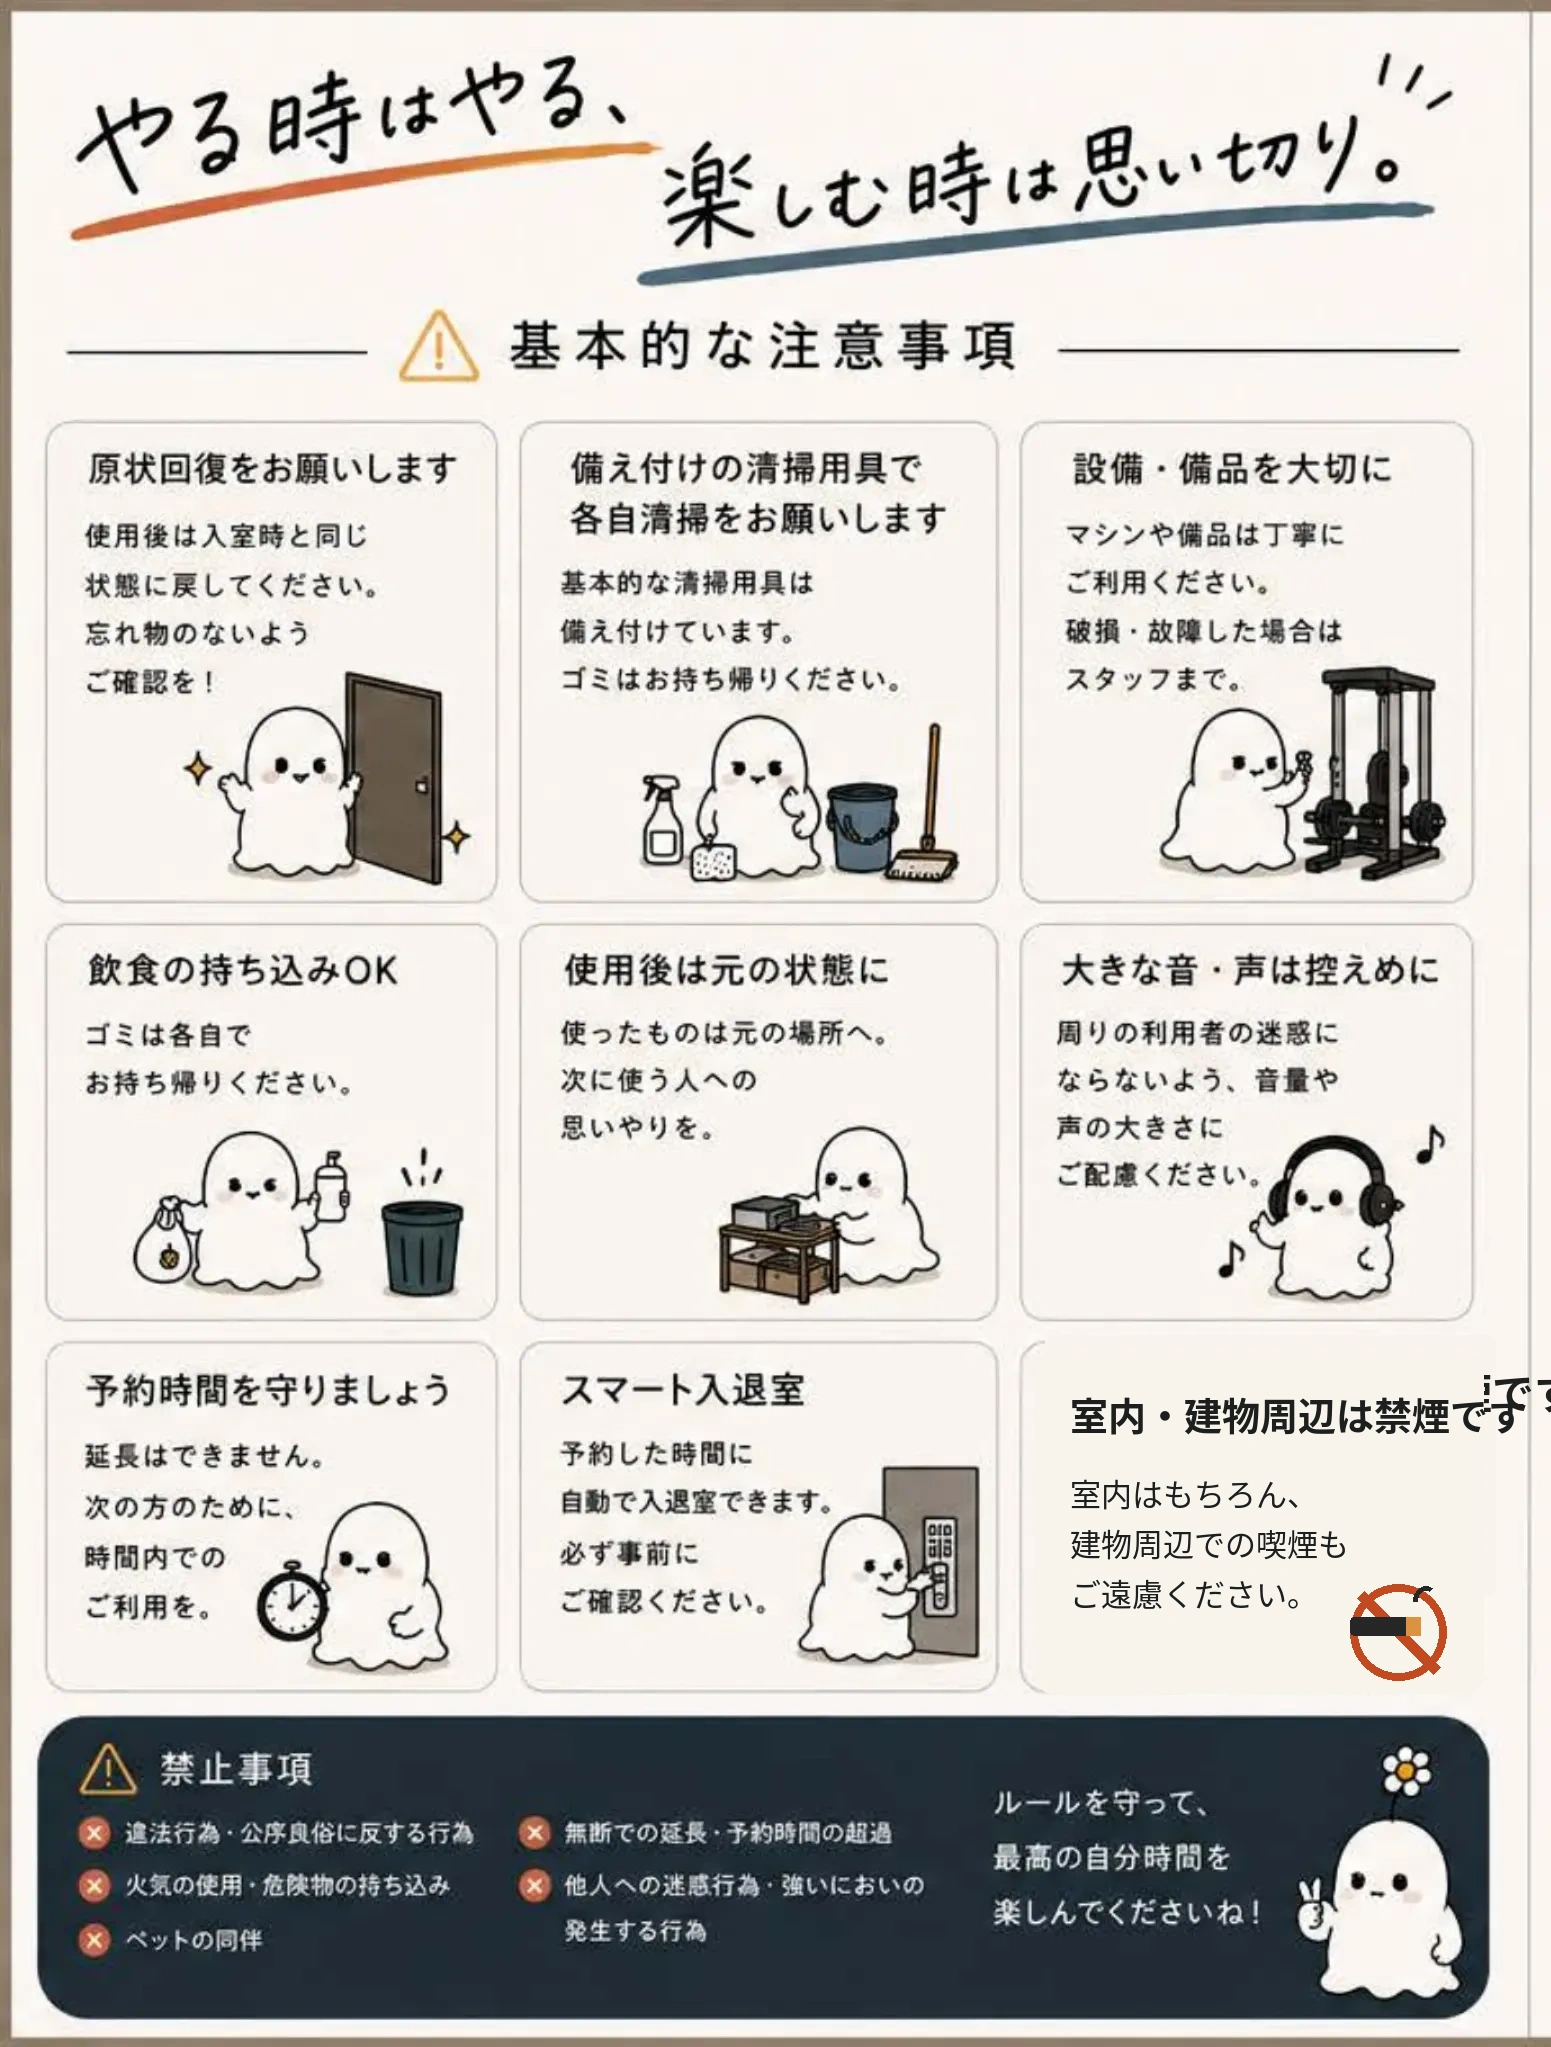
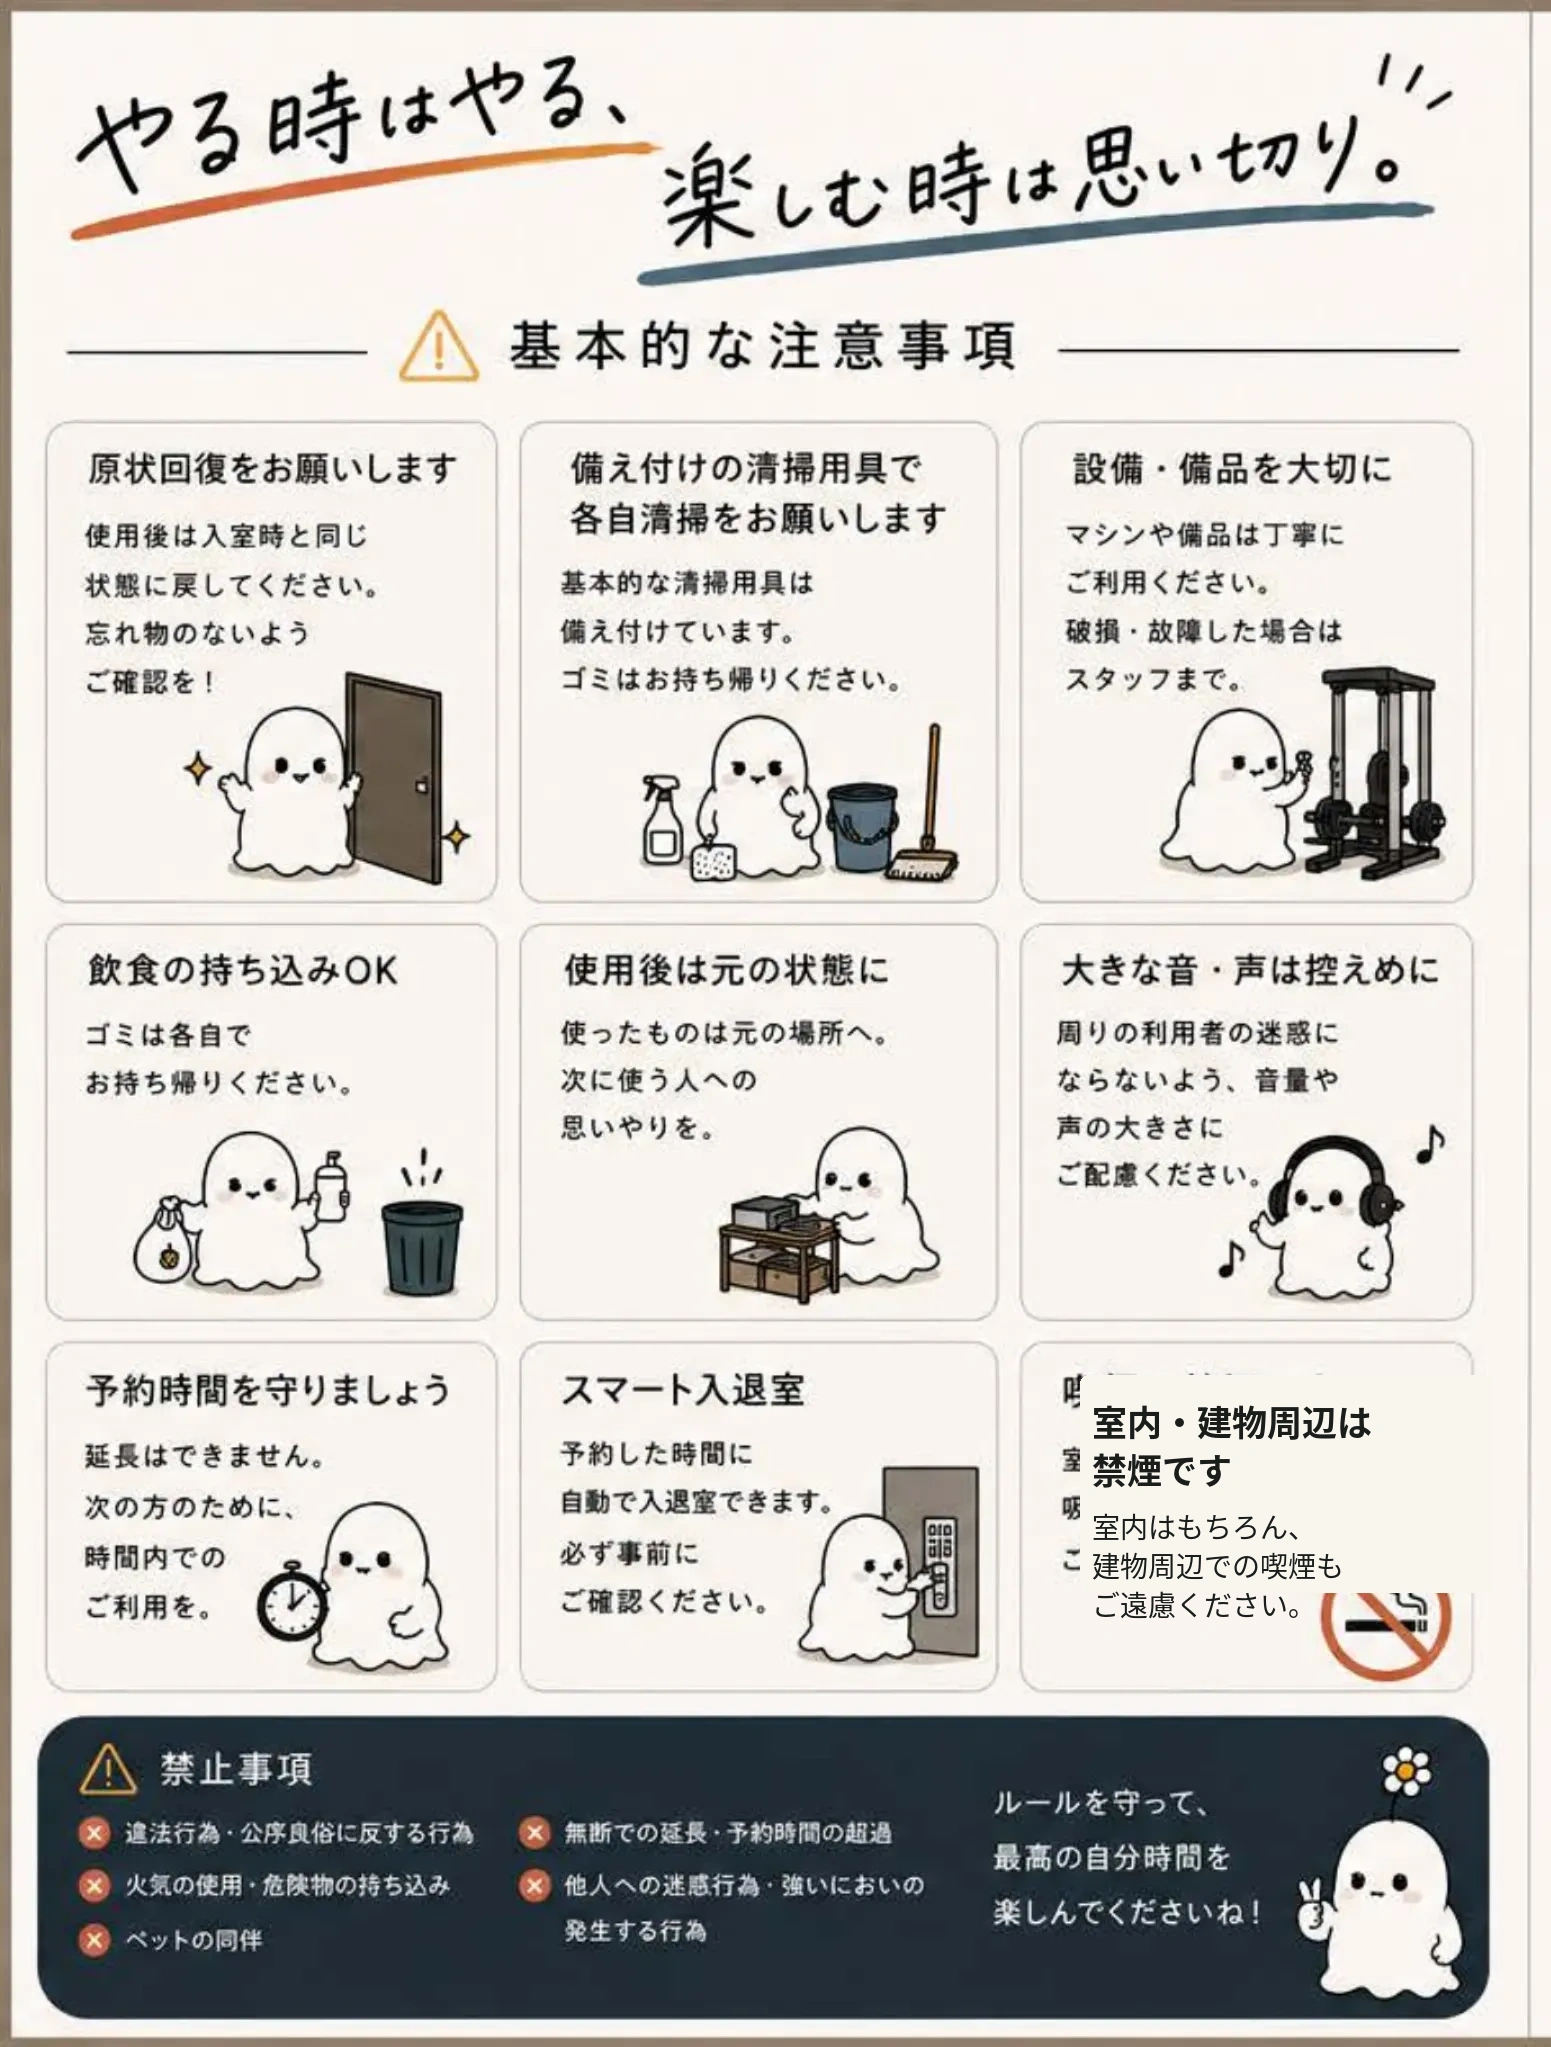
Add files via upload

Changed region(s): [[0.6809, 0.6463, 0.9903, 0.831]]

diff --git a/style.css b/style.css
@@ -1,4 +1,4 @@
-@import url('https://fonts.googleapis.com/css2?family=Klee+One:wght@400;600&family=Noto+Sans+JP:wght@400;600;800;900&family=Yuji+Syuku&display=swap');
+@import url('https://fonts.googleapis.com/css2?family=Noto+Sans+JP:wght@400;600;800;900&display=swap');
 :root{--cream:#f8f1e7;--soft:#eee3d3;--green:#123d2a;--ink:#12251b;--red:#de3c2b;--orange:#ef5b24;--line:#d8cbb8}
 *{box-sizing:border-box}html{scroll-behavior:smooth}body{margin:0;background:var(--cream);color:var(--ink);font-family:'Noto Sans JP',sans-serif;line-height:1.8;overflow-x:hidden}
 .site-header{position:sticky;top:0;z-index:50;min-height:82px;display:flex;align-items:center;gap:28px;padding:12px 4vw;background:rgba(248,241,231,.97);border-bottom:1px solid var(--line);backdrop-filter:blur(10px)}
@@ -94,8 +94,8 @@ footer{display:flex;justify-content:space-between;gap:20px;background:#071e15;co
 }
 .handwritten-copy{
   font-family:"Klee One","Yuji Syuku","Hiragino Maru Gothic ProN","Yu Gothic",sans-serif;
-  font-size:18px;
-  line-height:2.15;
+  font-size:17px;
+  line-height:2.1;
   letter-spacing:.035em;
 }
 .handwritten-copy > p:not(.quote){